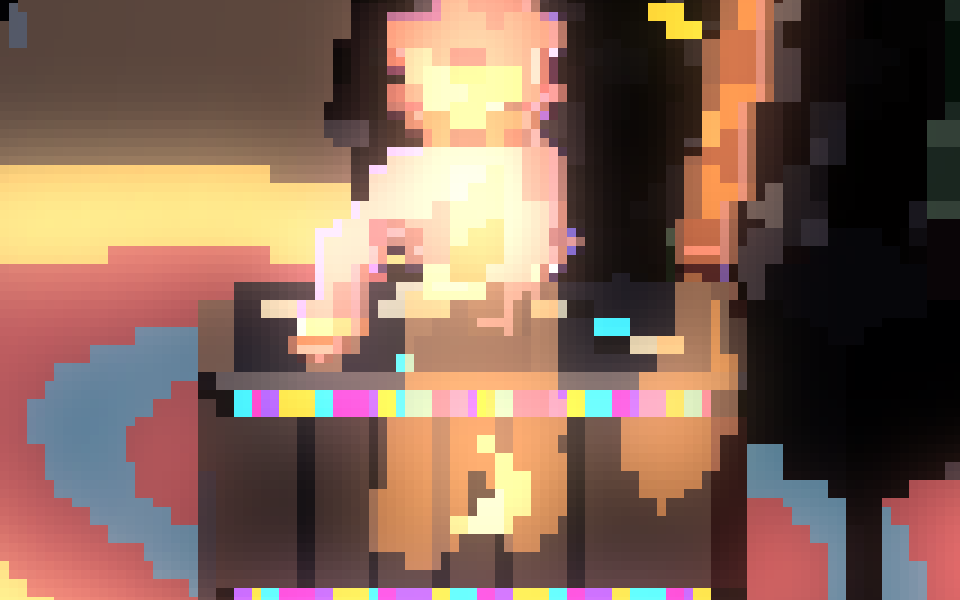
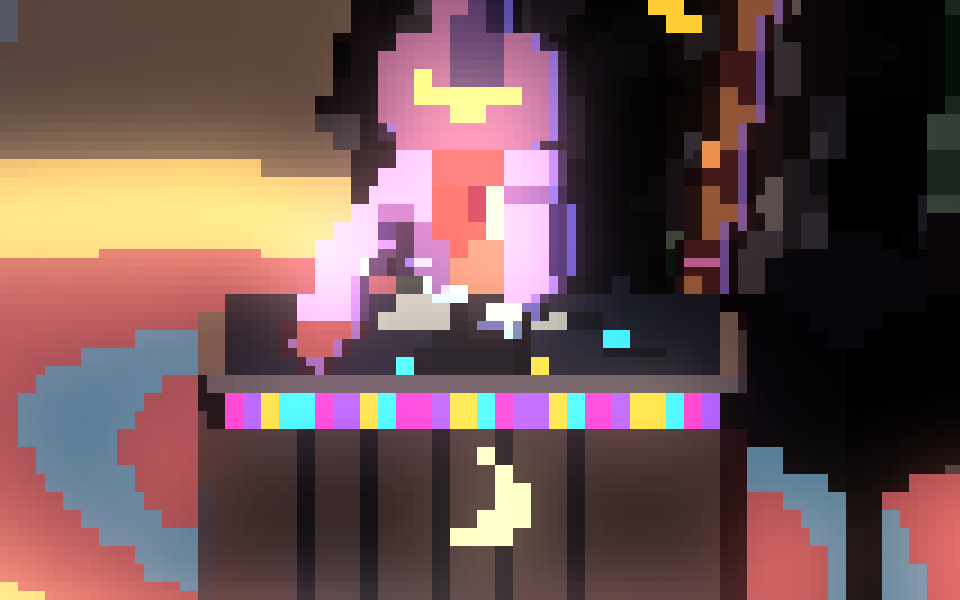
DJ booth: previews, the glossary, the changelog's version
Claude-Session: https://claude.ai/code/session_014acVVHVwbRfeD46pBsk634

diff --git a/tools/art-lab/dist/witch-art-lab.html b/tools/art-lab/dist/witch-art-lab.html
@@ -2595,6 +2595,7 @@ const WITCH_FOOT_POSES = {
   laugh: { frames: 3, fps: 4, party: "social" }, drink: { frames: 4, fps: 1.5, party: "social" }, run: { frames: 4, fps: 10, party: "move" },
   sitGround: { frames: 2, fps: 1, party: "rest" }, stargaze: { frames: 2, fps: 1, party: "rest" }, conga: { frames: 4, fps: 4, party: "pair" },
   twirl: { frames: 4, fps: 4, party: "pair" }, twirled: { frames: 4, fps: 4, party: "pair" }, limboHold: { frames: 2, fps: 2, party: "pair" }, limboHelp: { frames: 2, fps: 2, party: "pair" }, limbo: { frames: 4, fps: 3, party: "dance" },
+  dj: { frames: 14, fps: 4, heading: "towards" },
 };
 // Two witches together: each is her own sprite, and the game puts them so that her `meet` anchor and her partner's land on
 // the same pixel. mirror: the partner's sprite is flipped left-right (anchors too: x becomes w - x), so the two face each
@@ -2708,6 +2709,53 @@ const FOOT_FRAMES = {
   limbo: [0, 1, 2, 3].map(f => ({ broom: null, crouch: .62, limbo: 1.12 + [0, .05, 0, -.04][f], look: .3, sway: .02, mouth: f === 1,
     feet: [[.26 + [0, .05, .08, .03][f], .07, -.1], [.26 + [.08, .03, 0, .05][f], .07, .1]], free: [.0, .82 + [0, .03, 0, -.03][f], .44], hand: "palm", far: [.0, .82 - [0, .03, 0, -.03][f], -.44], farHand: "palm" })), // arms out for balance, shuffling forward
 };
+// dj (Ed, 2026-10-06: "The witch should have a 'DJing' animation for when she's standing behind the decks"): behind the
+// treehouse's decks, facing us (drawn heading towards), her broom leaning beside her, her hands on the decks laid out by
+// DJ_DECKS (in her own model's units: a forward, b up, c to her near side). Gestures of two frames each, the first on the
+// beat (her head nodding down, her knees dipping), the second off it; djFrame picks them from the beat clock:
+//   groove   nodding along, one hand on a platter, the other on the mixer
+//   cue      a hand to her headphone cup (the headphones round her neck when she isn't wearing them), head bent to it
+//   scratch  her hand rocking the record back and forth, eyes down on it
+//   fader    riding the crossfader from side to side
+//   knob     a fingertip on the mixer's knobs
+//   hype     a hand thrown up in the air, grinning (now and then)
+//   cast     both hands up (the party spell)
+const DJ_DECKS = { top: .5, platter: { a: .27, c: .29, r: .15 }, mixer: { a: .27, w: .09 }, fader: .37, depth: [.1, .44], width: .52 };
+const DJ_GESTURES = { groove: [0, 1], cue: [2, 3], scratch: [4, 5], fader: [6, 7], knob: [8, 9], hype: [10, 11], cast: [12, 13] };
+// the set she plays: a gesture a bar, round and round (hype once a loop)
+const DJ_SET = ["groove", "groove", "cue", "scratch", "groove", "fader", "knob", "cue", "groove", "scratch", "fader", "hype"];
+// The frame behind the decks at `beat` (beats on the game's beat clock, rules/beat.ts: beatAt): the gesture by the bar
+// (4 beats; `offset` bars along the set), its first frame for the first half of each beat; `cast`, the spell's gesture.
+function djFrame(beat, { cast = false, offset = 0 } = {}) {
+  const b = Math.max(0, beat), g = cast ? "cast" : DJ_SET[(Math.floor(b / 4) + offset) % DJ_SET.length];
+  return DJ_GESTURES[g][(b % 1) < .5 ? 0 : 1];
+}
+const DJ_BROOM = { binding: [-.08, .31, -.42], dir: [-.06, 1, -.16] };
+const djOn = (K) => ({ broom: DJ_BROOM, dj: true, farHand: "down", hand: "down", sway: .015, ...K });
+const PL = DJ_DECKS.platter, HT = DJ_DECKS.top + .06; // (a hand resting on a platter or the mixer)
+FOOT_FRAMES.dj = [
+  // groove
+  djOn({ crouch: .07, nod: .7, tilt: .1, free: [PL.a - .02, HT, PL.c + .01], far: [PL.a - .03, HT + .02, -.05] }),
+  djOn({ nod: -.15, look: .05, tilt: -.05, mouth: true, free: [PL.a, HT + .01, PL.c], far: [PL.a - .01, HT + .03, -.04] }),
+  // cue: the near hand up at her ear, its elbow out
+  djOn({ crouch: .05, nod: .45, tilt: .45, free: [.0, .93, .2], elbow: [.06, .78, .31], hand: "rest", far: [PL.a - .01, HT, -PL.c] }),
+  djOn({ nod: .05, tilt: .35, free: [.0, .94, .2], elbow: [.06, .79, .31], hand: "rest", far: [PL.a, HT, -PL.c + .01] }),
+  // scratch: the record pulled back, pushed forward
+  djOn({ crouch: .07, nod: .8, tilt: .15, free: [PL.a - .07, HT, PL.c + .03], far: [DJ_DECKS.fader - .02, HT + .01, -.02] }),
+  djOn({ crouch: .02, nod: .55, tilt: .2, free: [PL.a + .06, HT, PL.c - .04], far: [DJ_DECKS.fader - .02, HT + .01, .03] }),
+  // fader: across and back
+  djOn({ crouch: .06, nod: .6, tilt: -.15, free: [PL.a - .01, HT, PL.c], far: [DJ_DECKS.fader, HT + .01, -.07] }),
+  djOn({ nod: 0, tilt: -.05, free: [PL.a, HT, PL.c], far: [DJ_DECKS.fader, HT + .01, .06] }),
+  // knob: a fingertip on the mixer
+  djOn({ crouch: .06, nod: .55, tilt: -.25, look: -.1, free: [PL.a - .02, HT, PL.c], far: [PL.a - .06, HT + .05, .02], farHand: "point" }),
+  djOn({ nod: .1, tilt: -.15, free: [PL.a - .02, HT, PL.c], far: [PL.a - .04, HT + .05, -.03], farHand: "point" }),
+  // hype: a hand in the air
+  djOn({ crouch: .08, look: .2, tilt: .2, mouth: "laugh", free: [.06, 1.24, .26], elbow: [.08, 1.0, .27], hand: "point", far: [PL.a - .03, HT + .02, -.05] }),
+  djOn({ look: .28, tilt: .1, mouth: "laugh", free: [.08, 1.32, .23], elbow: [.08, 1.06, .26], hand: "wave", far: [PL.a - .02, HT + .03, -.04] }),
+  // cast: both hands up
+  djOn({ crouch: .06, look: .22, mouth: true, free: [.06, 1.26, .26], elbow: [.06, 1.0, .28], hand: "wave", far: [.06, 1.26, -.26], farElbow: [.06, 1.0, -.28], farHand: "wave" }),
+  djOn({ look: .3, mouth: "laugh", free: [.02, 1.36, .21], elbow: [.04, 1.08, .26], hand: "wave", far: [.02, 1.36, -.21], farElbow: [.04, 1.08, -.26], farHand: "wave" }),
+];
 // the knee between a hip and a foot, bent forward
 function kneeOf(hip, foot, l) {
   const d = Math.hypot(foot[0] - hip[0], foot[1] - hip[1]), mid = v3.lerp(hip, foot, .5);
@@ -2775,6 +2823,12 @@ function footModel(pose, frame, L = DEFAULT_LOOK) {
   if (L.phones) {
     for (const side of [-1, 1]) m.ell(v3.add(H, [-.015, 0, side * .105]), [.05, .055, .03], M.PHONES, { group: 10 });
     m.chain([[...v3.add(H, [-.005, .03, -.095]), .015], [...v3.add(H, [-.005, .11, -.05]), .015], [...v3.add(H, [-.005, .125, 0]), .015], [...v3.add(H, [-.005, .11, .05]), .015], [...v3.add(H, [-.005, .03, .095]), .015]], M.PHONES, { group: 10 });
+  }
+  if (K.dj && !L.phones) { // behind the decks, a pair round her neck (one cup up to her ear, cueing)
+    const neck = v3.add(chest, v3.mul(spine, .13)), cueing = free[1] > H[1] - .1 && free[1] < H[1] + .1;
+    const near = cueing ? v3.add(free, [.01, .02, -.04]) : v3.add(neck, [.05, -.02, .1]), far = v3.add(neck, [.05, -.02, -.1]);
+    for (const c of [near, far]) m.ell(c, [.035, .045, .045], M.PHONES, { group: 10 });
+    m.chain([[...far, .014], [...v3.add(neck, [-.06, .02, 0]), .014], [...near, .014]], M.PHONES, { group: 10 });
   }
   const brim = v3.add(H, [-.03 + K.nod * .03, .1 - K.nod * .02, K.tilt * .02]), tz = K.tilt * .05;
   const tip = drawHat(m, L, brim, [1, .25 - K.look * .8 - K.nod * .7, K.tilt * .3], v3.add(brim, [-.05 + K.nod * .05, .17, tz]), v3.add(brim, [-.16 - sway * .5 + K.nod * .12, .27 - K.nod * .04, tz * 2]));
@@ -2907,14 +2961,30 @@ const WITCH_HEADINGS = { away: -Math.PI / 2, towards: Math.PI / 2 };
 // look: a party look (DEFAULT_LOOK's keys; partyWitch gives one). Anchors, in pixels from the top-left: hand and hatTip on
 // every sprite; on foot also pair (where a partner meets her, WITCH_PAIRS), back (the conga) and cup (drinking).
 function witchSprite(st = {}, { frame = 0, lean = false, facing = "towards", pose, heading = "side", look } = {}) {
+  const dj = pose === "dj";
+  if (dj) heading = WITCH_FOOT_POSES.dj.heading;
   const h = witchHeight(st), yaw = WITCH_HEADINGS[heading];
   const model = witchModel({ frame, lean, pose, look }); model.phaseOnBody = true; // (her train and streaks never move her pixels)
-  const { sp, project, s } = yaw !== undefined ? render(model, { scale: witchScale(h), yaw }) : pose ? render(model, { scale: witchScale(h), facing }) : look && look !== DEFAULT_LOOK ? render(model, { scale: ownScale(h, frame, lean, facing), facing }) : render(model, { height: h, facing }); // (another look at the scale she has in that pose, so a tall hat doesn't shrink her)
+  const { sp, project, s, depth, depthOf } = yaw !== undefined ? render(model, { scale: witchScale(h), yaw, keepDepth: dj }) : pose ? render(model, { scale: witchScale(h), facing }) : look && look !== DEFAULT_LOOK ? render(model, { scale: ownScale(h, frame, lean, facing), facing }) : render(model, { height: h, facing }); // (another look at the scale she has in that pose, so a tall hat doesn't shrink her)
   sp.scale = s; // pixels per model unit
   if (model.anchors.hand) sp.anchors = Object.fromEntries(Object.entries(model.anchors).filter(([k]) => k !== "feet").map(([k, p]) => [k, project(p)]));
   liftShadow(sp, model, project);
   cleanFlecks(sp); // (Ed: "The witch has these little flecks … we should remove them")
+  if (dj) sp.upper = aboveDecks(sp, project, depth, depthOf);
   return sp;
+}
+// Behind the decks: which of her pixels are above the decks' top (DJ_DECKS.top), so drawn over the DJ table (the game draws
+// the table over her, then these over it: her hands on the platters, the table hiding her legs). Each pixel's height in the
+// model from where it lands and how deep it is (the render's projection is affine: inverted from the axes).
+function aboveDecks(sp, project, depth, depthOf) {
+  const f = p => { const [x, y] = project(p); return [x, y, depthOf(p)]; }, o = f([0, 0, 0]), ax = [[1, 0, 0], [0, 1, 0], [0, 0, 1]].map(e => f(e).map((v, k) => v - o[k]));
+  const [a, b, c] = ax, det = v3.dot(a, v3.cross(b, c)), row = v3.mul(v3.cross(c, a), 1 / det); // the inverse's middle row: the model's y
+  const up = new Uint8Array(sp.w * sp.h), top = DJ_DECKS.top + .015;
+  for (let y = 0; y < sp.h; y++) for (let x = 0; x < sp.w; x++) {
+    const i = y * sp.w + x; if (!sp.m[i] || !isFinite(depth[i])) continue;
+    if (v3.dot(row, [x + .5 - o[0], y + .5 - o[1], depth[i] - o[2]]) > top) up[i] = 1;
+  }
+  return up;
 }
 // Her shadow, drawn by the game instead (Ed, 2026-10-06: she floated over her shadow lying on the beach): the model's dark
 // ellipse on its ground is taken out of the sprite (the box kept, so she stands and flies exactly where she did), and two
@@ -3093,24 +3163,66 @@ const TREEHOUSE_STOREYS = {
 };
 const FAIRY = [M.COLLAR, M.RUNE, M.WOKEN, M.MAGIC];
 const OPEN = a => Math.abs(((a - Math.PI / 2 + Math.PI * 3) % (Math.PI * 2)) - Math.PI) < 1.35; // the studio's open side: round +z, towards the camera
-// The DJ table (Ed: "she is a DJ, and should have decks"): a sturdy desk across the front of the studio, two turntables
-// with a mixer between them, a laptop on a stand, headphones; small lights on the decks and the mixer's faders in the party's
-// colours. Built into the house and, alone, into the `fore` sprite the game draws over her (she sits behind it).
-const DJ = { z: 2.38, y: TREEHOUSE_STOREYS.studio.y };
-function djTable(m) {
-  const { z, y } = DJ, top = y + .6, G0 = 60; // its own groups (60..69), apart from the house's
-  m.box([0, y + .3, z], [.9, .3, .26], M.WOOD, { round: .03, group: G0, paint: p => p[2] > z + .24 ? (p[1] < y + .1 ? FAIRY[Math.floor((p[0] + 9) * 5) % 4] : ((p[0] + 9) * 4) % 1 < .06 ? M.BARKD : M.BARK2) : p[1] > top - .03 ? M.BARKL : undefined }); // the desk, an LED strip along its front foot
-  for (const [x, k] of [[-.47, 0], [.47, 2]]) { // the turntables
-    m.box([x, top + .03, z], [.3, .03, .23], M.SHADES, { round: .015, group: G0 + 1 + k });
-    const pc = [x - .03, top + .065, z - .01]; m.ell(pc, [.19, .012, .19], M.BODY3, { group: G0 + 2 + k, paint: p => { const d = Math.hypot(p[0] - pc[0], p[2] - pc[2]); return d < .045 ? M.ACCENT : Math.abs(p[0] - pc[0] - (p[2] - pc[2]) * .6) < .012 && d < .17 ? M.FRAME : (d * 60) % 1 < .25 ? M.SHADES : undefined; } }); // the platter: a record, a label, a glint across it
-    m.seg([x + .22, top + .09, z - .16], [x + .08, top + .09, z + .05], .01, .008, M.FRAME, { group: G0 + 1 + k }); // the tonearm
-    m.ell([x + .24, top + .065, z + .17], [.018, .012, .018], k ? M.WOKEN : M.RUNE, { group: G0 + 1 + k }); // its light
-  }
-  m.box([0, top + .05, z], [.11, .05, .21], M.SHADES, { round: .015, group: G0 + 5, paint: p => p[1] > top + .09 ? ((Math.floor((p[0] + 9) * 26) % 2 === 0 && ((p[2] - z + 9) * 9) % 1 < .45) ? FAIRY[Math.floor((p[0] + 9) * 13) % 4] : undefined) : undefined }); // the mixer, its faders lit
-  m.seg([.8, top, z - .05], [.8, top + .14, z - .08], .02, .02, M.FRAME, { group: G0 + 6 }); m.box([.8, top + .15, z - .05], [.14, .008, .1], M.FRAME, { round: .004, group: G0 + 6 }); m.box([.8, top + .26, z - .14], [.14, .1, .008], M.FRAME, { dir: [1, 0, 0], up: [0, 1, .45], round: .004, group: G0 + 6, paint: p => p[2] < z - .145 ? M.RUNE : undefined }); // a laptop on its stand
-  m.chain([[-.86, top + .02, z + .1, .015], [-.8, top + .1, z + .04, .015], [-.7, top + .02, z - .02, .015]], M.BODY3, { group: G0 + 7 }); for (const [x, zz] of [[-.86, .1], [-.7, -.02]]) m.ell([x, top + .03, z + zz], [.045, .03, .045], M.BODY3, { group: G0 + 7, paint: p => p[1] > top + .05 ? M.COLLAR : undefined }); // headphones
+// The DJ booth (Ed, 2026-10-06: "The witch should have a 'DJing' animation for when she's standing behind the decks. Feel free
+// to redesign the treehouse to make it better for this"): a desk squared up to the camera (whichever way the house is turned)
+// right in front of where she stands, laid out to her own reach (DJ_DECKS in witch.js, in her model's units: a forward, b up,
+// c to her near side, the screen's left): two turntables, their platters' labels glowing pink and cyan, a white mark on each
+// going round (frame by frame), tonearms, start lights; a mixer between them, its knobs, channel faders, crossfader and two
+// level meters jumping; a raised lip along the front edge, and on the front panel a chasing strip of party LEDs top and
+// bottom, round a glowing crescent moon. Built into the house (frame 0) and, alone, into the fore frames the game draws over
+// her (DJ_FRAMES of them: the platters turn an eighth of a turn and the LEDs chase on each).
+const DJ_FRAMES = 8;
+const DJ_STAND = [0, TREEHOUSE_STOREYS.studio.y, 1.75]; // where she stands (her seat anchor), in the house's units
+function djFrame3(facing) { // her model's (a, b, c) in the house's: squared to the camera at the house's yaw for this facing
+  const yaw = YAW[facing] ?? YAW.towards, f = [Math.sin(yaw), 0, Math.cos(yaw)], r = [Math.cos(yaw), 0, -Math.sin(yaw)], o = v3.sub(DJ_STAND, v3.mul(f, .02)); // (her ground anchor .02 ahead of her origin)
+  const to = ([a, b, c]) => v3.add(o, v3.add(v3.mul(f, a), v3.add(v3.mul(r, -c), [0, b, 0])));
+  const from = p => { const d = v3.sub(p, o); return [v3.dot(d, f), d[1], -v3.dot(d, r)]; };
+  return { to, from, f, r };
 }
-function treehouseModel() {
+function djTable(m, { frame = 0, facing = "towards" } = {}) {
+  const D = DJ_DECKS, F = djFrame3(facing), { to, from, f, r } = F, G0 = 60, TOP = D.top, [a0, a1] = D.depth, am = (a0 + a1) / 2, W = D.width; // its own groups (60..79), apart from the house's
+  const box = (c, h, mat, o = {}) => m.box(to(c), h, mat, { dir: r, up: [0, 1, 0], ...o }); // half sizes: across, up, deep
+  const chase = (c, k) => FAIRY[((Math.floor((c + 9) * 22) + frame + k) % 4 + 4) % 4];
+  // the desk: a panelled front with LED strips top and bottom round a crescent moon, wood sides, a dark top
+  box([am, TOP / 2, 0], [W, TOP / 2, (a1 - a0) / 2], M.WOOD, { round: .02, group: G0, paint: p => {
+    const [a, b, c] = from(p);
+    if (b > TOP - .012) return undefined; // the top (bare wood, so the dark decks stand out on it)
+    if (a < a1 - .015) return Math.abs(c) > W - .02 ? M.BARKL : undefined; // the sides
+    if (b > TOP - .06 || b < .05) return Math.abs(c) > W - .03 ? M.BARKD : chase(c, b < .05 ? 2 : 0); // the LED strips
+    const mc = [c - .0, b - .27], d1 = Math.hypot(mc[0], mc[1]), d2 = Math.hypot(mc[0] - .05, mc[1] - .03); // the moon: a disc less a disc
+    if (d1 < .11 && d2 > .095) return M.MAGIC2;
+    return Math.abs(((c + 9) * 7.5) % 1 - .5) > .46 ? M.BARK2 : undefined; // slats
+  } });
+  box([a1 - .01, TOP + .012, 0], [W + .015, .014, .018], M.BARKL, { round: .008, group: G0 + 1 }); // the lip along its front edge
+  // the turntables
+  for (const [k, side] of [[0, 1], [1, -1]]) {
+    const P = D.platter, c0 = side * P.c, gk = G0 + 2 + k * 4, mark = (frame / DJ_FRAMES) * Math.PI * 2 * -side + k * 1.7; // (both turning clockwise seen from above)
+    box([P.a, TOP + .01, c0], [P.r + .04, .012, P.r + .03], M.SHADES, { round: .01, group: gk });
+    const pc = to([P.a, TOP + .03, c0]);
+    m.ell(pc, [P.r, .008, P.r], M.BODY3, { group: gk + 1, paint: p => {
+      const [a, , c] = from(p), da = a - P.a, dc = c - c0, d = Math.hypot(da, dc);
+      if (d < .04) return d < .012 ? M.FRAME : k ? M.RUNE : M.COLLAR; // the label (and its spindle)
+      const ang = Math.atan2(dc, da), off = Math.abs(((ang - mark) % (Math.PI * 2) + Math.PI * 3) % (Math.PI * 2) - Math.PI);
+      if (off < .32 && d > .065 && d < P.r - .015) return M.BELLY; // the mark going round
+      return Math.abs(d - .085) < .006 || Math.abs(d - .11) < .005 ? M.SHADES : undefined; // grooves
+    } });
+    const pivot = to([P.a - .1, TOP + .05, c0 - side * (P.r + .02)]), stylus = to([P.a + .06, TOP + .04, c0 - side * .07]);
+    m.seg(pivot, stylus, .009, .007, M.FRAME, { group: gk + 2 }); m.ell(pivot, [.02, .02, .02], M.FRAME, { group: gk + 2 }); // the tonearm
+    m.ell(to([P.a + P.r - .005, TOP + .03, c0 - side * (P.r + .015)]), [.014, .01, .014], (frame + k) % 4 < 2 ? (k ? M.WOKEN : M.RUNE) : M.SHADES, { group: gk + 3 }); // its start light, blinking
+  }
+  // the mixer: knobs at the back, two level meters, channel faders, the crossfader in front
+  const X = D.mixer, gm = G0 + 12, lv = [5, 3, 4, 2, 5, 2, 4, 3][frame % 8], lv2 = [4, 5, 2, 4, 3, 5, 2, 4][frame % 8];
+  box([X.a, TOP + .02, 0], [X.w, .02, .15], M.SHADES, { round: .01, group: gm, paint: p => {
+    const [a, b, c] = from(p); if (b < TOP + .035) return undefined;
+    for (const [cc, L] of [[.02, lv], [-.02, lv2]]) if (Math.abs(c - cc) < .009) { const n = Math.floor((.31 - a) / .016); if (n >= 0 && n < 5 && ((.31 - a) / .016) % 1 < .7) return n < L ? (n < 2 ? M.RUNE : n < 4 ? M.WOKEN : M.COLLAR) : M.BODY3; } // the meters, low to high
+    return undefined;
+  } });
+  for (const cc of [-.06, .06]) for (const aa of [.16, .2, .24]) m.ell(to([aa, TOP + .045, cc]), [.012, .008, .012], M.FRAME, { group: gm + 1 }); // knobs
+  for (const cc of [-.045, .045]) m.box(to([.34, TOP + .045, cc]), [.008, .006, .016], M.BELLY, { dir: r, up: [0, 1, 0], group: gm + 2 }); // channel faders
+  m.box(to([D.fader, TOP + .045, [.03, .01, -.03, -.01][frame % 4]]), [.018, .007, .008], M.BELLY, { dir: r, up: [0, 1, 0], group: gm + 3 }); // the crossfader, riding
+  return F;
+}
+function treehouseModel(facing = "towards") {
   const m = new Model({ blend: .04 }), lights = [];
   const hash = (a, b) => { const x = Math.sin(a * 127.1 + b * 311.7) * 43758.5453; return x - Math.floor(x); };
   let G = 100; const g = () => G++;
@@ -3182,14 +3294,14 @@ function treehouseModel() {
   { const c = [2.15, sy, -1.65], gk = g(), d = [Math.cos(-2.4), 0, Math.sin(-2.4)], f = v3.norm([-d[2], 0, d[0]]); m.box(v3.add(c, [0, .45, 0]), [.36, .45, .32], M.SHADES, { dir: d, round: .03, group: gk }); m.box(v3.add(c, [0, 1.15, 0]), [.26, .25, .24], M.SHADES, { dir: d, round: .03, group: gk }); for (const [dy, r, o] of [[.45, .27, .33], [1.15, .15, .25]]) { const cc = v3.add(v3.add(c, [0, dy, 0]), v3.mul(f, o)); m.ell(cc, [r, r, .03], M.BODY3, { dir: f, up: [0, 1, 0], group: gk, paint: p => Math.hypot(...v3.sub(p, cc)) < r * .4 ? M.MAGIC : M.BODY3 }); } } // a speaker stack in the corner
   for (const x of [-1.2, 1.25]) { const c = [x, sy, 2.25], gm = g(); m.seg(c, v3.add(c, [0, .8, 0]), .025, .025, M.BODY3, { group: gm }); m.box(v3.add(c, [0, 1.0, 0]), [.15, .2, .14], M.SHADES, { dir: [x < 0 ? .95 : -.95, 0, -.3], round: .02, group: gm }); } // monitors on stands either side of the decks
   for (const [x, z] of [[-1.75, 1.75], [1.75, 2.0]]) { const c = [x, sy, z], gc = g(); m.box(v3.add(c, [0, .17, 0]), [.27, .17, .2], M.WOOD, { round: .015, group: gc, paint: p => p[1] > sy + .3 ? M.BARKL : undefined }); for (let k = 0; k < 6; k++) m.box(v3.add(c, [-.2 + k * .08, .3 + hash(k, x) * .04, 0]), [.012, .16, .16], [M.ACCENT, M.CLOTH, M.BODY2, M.EAR][k % 4], { round: .005, group: gc }); } // record crates, the sleeves showing
-  djTable(m);
-  const stool = [0, sy, 1.68], gst = g(); m.ell(v3.add(stool, [0, WITCH_SEAT_HEIGHT - .03, 0]), [.2, .04, .2], M.CLOTH, { group: gst }); for (let k = 0; k < 3; k++) { const a = k / 3 * Math.PI * 2; m.seg(v3.add(stool, [Math.cos(a) * .14, 0, Math.sin(a) * .14]), v3.add(stool, [0, WITCH_SEAT_HEIGHT - .05, 0]), .02, .02, M.FRAME, { group: gst }); } // her stool, behind the decks
+  const dj = djTable(m, { facing });
+  const stool = DJ_STAND, gst = g(); m.ell(v3.add(stool, [0, WITCH_SEAT_HEIGHT - .03, 0]), [.2, .04, .2], M.CLOTH, { group: gst }); for (let k = 0; k < 3; k++) { const a = k / 3 * Math.PI * 2; m.seg(v3.add(stool, [Math.cos(a) * .14, 0, Math.sin(a) * .14]), v3.add(stool, [0, WITCH_SEAT_HEIGHT - .05, 0]), .02, .02, M.FRAME, { group: gst }); } // her stool, behind the decks
   for (const [a, y, k] of [[-Math.PI / 2 - 1.55, 1.1, 0], [-Math.PI / 2 + 1.5, 1.2, 1], [-Math.PI / 2 + .1, 1.55, 2], [Math.PI + .55, 1.0, 3]]) { const c = [Math.cos(a) * (SR - .07), sy + y, Math.sin(a) * (SR - .07)], d = [-Math.sin(a), 0, Math.cos(a)]; m.box(c, [.17, .23, .01], [M.ACCENT, M.CLOTH, M.BODY2, M.EAR][k], { dir: d, up: [0, 1, 0], round: .005, group: g(), paint: p => { const u = v3.dot(v3.sub(p, c), d) / .17, v = (p[1] - c[1]) / .23; return Math.hypot(u, v - .2) < .45 ? [M.BODY2, M.ACCENT, M.CLOTH, M.ACCENT][k] : v < -.55 && Math.abs(u) < .7 && ((u + 2) * 6) % 1 < .5 ? M.SHADES : undefined; } }); } // party flyers on the walls
-  { const gl = g(), top = [0, sy + S.studio.h + .6, 1.9], bulb = [0, sy + 1.6, 1.9]; m.seg(top, v3.add(bulb, [0, .16, 0]), .008, .008, M.BODY3, { group: gl }); m.seg(v3.add(bulb, [0, .17, 0]), v3.add(bulb, [0, .02, 0]), .03, .16, M.BODY3, { group: gl }); m.ell(bulb, [.07, .06, .07], M.MAGIC2, { group: gl }); } // a pendant lamp over the decks
+  { const gl = g(), top = [0, sy + S.studio.h + .6, 1.0], bulb = [0, sy + 1.6, 1.0]; m.seg(top, v3.add(bulb, [0, .16, 0]), .008, .008, M.BODY3, { group: gl }); m.seg(v3.add(bulb, [0, .17, 0]), v3.add(bulb, [0, .02, 0]), .03, .16, M.BODY3, { group: gl }); m.ell(bulb, [.07, .06, .07], M.MAGIC2, { group: gl }); } // a pendant lamp over the decks
   { const gl = g(), f = [-1.6, sy, -1.7]; m.seg(f, v3.add(f, [0, 1.25, 0]), .02, .02, M.BODY3, { group: gl }); m.seg(v3.add(f, [0, 1.25, 0]), v3.add(f, [0, 1.05, 0]), .04, .14, M.STRAW, { group: gl }); m.ell(v3.add(f, [0, 1.1, 0]), [.06, .05, .06], M.MAGIC2, { group: gl }); } // a floor lamp
-  lights.push({ at: [0, sy + 1.55, 1.9], rgb: [255, 214, 150], kind: "studio lamp" }, { at: [-1.6, sy + 1.1, -1.7], rgb: [255, 200, 130], kind: "studio lamp" });
-  lights.push({ at: [0, sy + 1.0, 1.4], rgb: [255, 200, 120], kind: "studio" }, { at: [Math.cos(-Math.PI / 2 + .62) * SR, sy + 1.2, Math.sin(-Math.PI / 2 + .62) * SR], rgb: [255, 190, 96], kind: "studio window" }, { at: [-.6, sy + S.studio.h - .1, 1.6], rgb: [255, 120, 220], kind: "fairy lights" });
-  for (const [x, rgb] of [[-.45, [80, 230, 255]], [0, [255, 80, 200]], [.45, [255, 214, 80]]]) lights.push({ at: [x, sy + .7, 2.3], rgb, kind: "decks" }); // the decks' and mixer's indicator lights, for the game to pulse with the music
+  lights.push({ at: [0, sy + 1.55, 1.0], rgb: [255, 214, 150], kind: "studio lamp" }, { at: [-1.6, sy + 1.1, -1.7], rgb: [255, 200, 130], kind: "studio lamp" });
+  lights.push({ at: [0, sy + 1.6, .7], rgb: [255, 200, 120], kind: "studio" }, { at: [Math.cos(-Math.PI / 2 + .62) * SR, sy + 1.2, Math.sin(-Math.PI / 2 + .62) * SR], rgb: [255, 190, 96], kind: "studio window" }, { at: [-.6, sy + S.studio.h - .1, 1.6], rgb: [255, 120, 220], kind: "fairy lights" });
+  for (const [c, rgb] of [[DJ_DECKS.platter.c, [255, 80, 200]], [0, [255, 214, 80]], [-DJ_DECKS.platter.c, [80, 230, 255]]]) lights.push({ at: dj.to([DJ_DECKS.depth[1] + .35, DJ_DECKS.top * .5, c]), rgb, kind: "decks" }); // the decks' LEDs, lighting the booth's front (out in front of it, not on her), for the game to pulse
   { const gl = g(), D = S.studio.deck, n = 40; for (let k = 0; k < n; k++) { const a = k / n * Math.PI * 2; m.ell([Math.cos(a) * (D - .05), sy - .16, Math.sin(a) * (D - .05)], [.05, .035, .05], FAIRY[k % 4], { group: gl, extra: true }); } lights.push({ at: [0, sy - .2, S.studio.deck], rgb: [80, 230, 255], kind: "LED strip" }); } // an LED strip under the deck's edge
   // ---- the loft: a smaller storey, a loudspeaker on its balcony, solar panels on its roof ----
   deck(S.loft, { under: 5 });
@@ -3219,7 +3331,7 @@ function treehouseModel() {
     m.chain(rail, M.BODY3, { group: g() }); }
   for (const [a, y0, y1] of [[Math.PI / 2 + 1.55, S.studio.y, S.loft.y], [Math.PI / 2 + 1.45, S.loft.y, S.tower.y]]) { const gl = g(), D = y0 < 6 ? 2.6 : 2.05; for (const off of [-.18, .18]) { const b = a + off / D; m.seg([Math.cos(b) * D, y0, Math.sin(b) * D], [Math.cos(b) * D, y1, Math.sin(b) * D], .025, .025, M.WOOD, { group: gl }); } for (let y = y0 + .3; y < y1; y += .32) m.seg([Math.cos(a - .18 / D) * D, y, Math.sin(a - .18 / D) * D], [Math.cos(a + .18 / D) * D, y, Math.sin(a + .18 / D) * D], .02, .02, M.WOOD, { group: gl }); } // ladders up the outside
   m.ell([0, .005, 0], [4.6, .005, 3.6], M.NOSE, { group: 0 }); // its shadow on the ground
-  return { m, lights, seat: stool, door: [Math.cos(Math.PI / 2 + .05) * S.porch.R, S.porch.y, Math.sin(Math.PI / 2 + .05) * (S.porch.R + .05)], camera: [0, sy + .95, 1.9], splitY: sy + S.studio.h + 1.5, footprint: 4.3, crownR, trunkR: 1.55 }; // trunkR: its radius 3 m up
+  return { m, lights, dj, seat: stool, door: [Math.cos(Math.PI / 2 + .05) * S.porch.R, S.porch.y, Math.sin(Math.PI / 2 + .05) * (S.porch.R + .05)], camera: [0, sy + .95, 1.9], splitY: sy + S.studio.h + 1.5, footprint: 4.3, crownR, trunkR: 1.55 }; // trunkR: its radius 3 m up
 }
 
 // The treehouse at the witch's scale: { whole, top, bot, fore, crownY, anchors: { base, seat, door, camera, lights: [{ x, y, rgb, kind }] }, metres }.
@@ -3231,7 +3343,7 @@ function treehouseModel() {
 // trunk (the giant tree's diameter 3 m up) and crown (its crown's radius). fore: the DJ table alone, at the same size and origin
 // as whole, for the game to draw over the witch sitting behind it.
 function treehouseSprite(st = {}, { facing = "towards", ppm = 16 } = {}) {
-  const T = treehouseModel(), ppu = witchPixelsPerUnit(st), r = render(T.m, { scale: ppu, facing }), full = r.sp, um = u => +(u * ppu / ppm).toFixed(1); // model units to metres
+  const T = treehouseModel(facing), ppu = witchPixelsPerUnit(st), r = render(T.m, { scale: ppu, facing }), full = r.sp, um = u => +(u * ppu / ppm).toFixed(1); // model units to metres
   // cropped to what is drawn (a part's bounding sphere leaves empty rows above it); anchors move with it
   let x0 = full.w, x1 = -1, y0 = full.h; for (let y = 0; y < full.h; y++) for (let x = 0; x < full.w; x++) if (full.m[y * full.w + x]) { x0 = Math.min(x0, x); x1 = Math.max(x1, x); y0 = Math.min(y0, y); }
   const sp = new Sprite(x1 - x0 + 1, full.h - y0); for (let y = 0; y < sp.h; y++) for (let x = 0; x < sp.w; x++) { const i = (y + y0) * full.w + x + x0; if (full.m[i]) sp.put(x, y, full.m[i], full.n[i * 3], full.n[i * 3 + 1], full.n[i * 3 + 2]); }
@@ -3243,11 +3355,19 @@ function treehouseSprite(st = {}, { facing = "towards", ppm = 16 } = {}) {
     (LEAVES.has(mm) || y < crownY ? top : bot).put(x, y, mm, sp.n[i * 3], sp.n[i * 3 + 1], sp.n[i * 3 + 2]);
   }
   const at = p => { const [x, y] = project(p); return { x, y }; };
-  // fore: the DJ table alone, where it shows in the whole sprite (same size and origin), for the game to draw over her
-  const fm = new Model({ blend: .04 }); djTable(fm); const rf = render(fm, { scale: ppu, facing }), P0 = [0, DJ.y + .3, DJ.z], [ax, ay] = r.project(P0), [bx, by] = rf.project(P0), fore = new Sprite(sp.w, sp.h);
-  for (let y = 0; y < rf.sp.h; y++) for (let x = 0; x < rf.sp.w; x++) { const i = y * rf.sp.w + x, mm = rf.sp.m[i]; if (!mm) continue; const X = Math.round(x + ax - bx - x0), Y = Math.round(y + ay - by - y0); if (X < 0 || Y < 0 || X >= sp.w || Y >= sp.h || !sp.m[Y * sp.w + X]) continue; const j = Y * sp.w + X; if (sp.m[j] !== M.LINE && sp.m[j] !== mm && !(mm === M.LINE)) continue; fore.put(X, Y, sp.m[j], sp.n[j * 3], sp.n[j * 3 + 1], sp.n[j * 3 + 2]); }
+  // fore: the DJ table alone, where it shows in the whole sprite (same size and origin), for the game to draw over her; and
+  // foreFrames, its DJ_FRAMES turns cropped to the box they share (foreBox: its top-left in the whole sprite's pixels)
+  const P0 = T.dj.to([DJ_DECKS.platter.a, DJ_DECKS.top, 0]), [ax, ay] = r.project(P0), frames = [];
+  for (let k = 0; k < DJ_FRAMES; k++) {
+    const fm = new Model({ blend: .04 }); djTable(fm, { frame: k, facing }); const rf = render(fm, { scale: ppu, facing }), [bx, by] = rf.project(P0), fs = new Sprite(sp.w, sp.h);
+    for (let y = 0; y < rf.sp.h; y++) for (let x = 0; x < rf.sp.w; x++) { const i = y * rf.sp.w + x, mm = rf.sp.m[i]; if (!mm) continue; const X = Math.round(x + ax - bx - x0), Y = Math.round(y + ay - by - y0); if (X < 0 || Y < 0 || X >= sp.w || Y >= sp.h) continue; fs.put(X, Y, mm, rf.sp.n[i * 3], rf.sp.n[i * 3 + 1], rf.sp.n[i * 3 + 2]); }
+    frames.push(fs);
+  }
+  const fore = frames[0]; let fx0 = sp.w, fx1 = -1, fy0 = sp.h, fy1 = -1;
+  for (const fs of frames) for (let y = 0; y < sp.h; y++) for (let x = 0; x < sp.w; x++) if (fs.m[y * sp.w + x]) { fx0 = Math.min(fx0, x); fx1 = Math.max(fx1, x); fy0 = Math.min(fy0, y); fy1 = Math.max(fy1, y); }
+  const foreFrames = frames.map(fs => { const c = new Sprite(fx1 - fx0 + 1, fy1 - fy0 + 1); for (let y = 0; y < c.h; y++) for (let x = 0; x < c.w; x++) { const i = (y + fy0) * sp.w + x + fx0; if (fs.m[i]) c.put(x, y, fs.m[i], fs.n[i * 3], fs.n[i * 3 + 1], fs.n[i * 3 + 2]); } return c; });
   const S = TREEHOUSE_STOREYS;
-  return { whole: sp, top, bot, fore, crownY, anchors: { base: at([0, 0, 0]), seat: at(T.seat), door: at(T.door), camera: at(T.camera), lights: T.lights.map(L => ({ ...at(L.at), rgb: L.rgb, kind: L.kind })) },
+  return { whole: sp, top, bot, fore, foreFrames, foreBox: { x: fx0, y: fy0 }, crownY, anchors: { base: at([0, 0, 0]), seat: at(T.seat), door: at(T.door), camera: at(T.camera), lights: T.lights.map(L => ({ ...at(L.at), rgb: L.rgb, kind: L.kind })) },
     metres: { height: +(sp.h / ppm).toFixed(1), width: +(sp.w / ppm).toFixed(1), towerFloor: um(S.tower.y), roofTip: um(S.tower.y + S.tower.h + 3.3 + .3), footprint: um(T.footprint), overhang: um(S.studio.deck), trunk: um(T.trunkR * 2), crown: um(T.crownR) } };
 }
 

diff --git a/CLAUDE.md b/CLAUDE.md
@@ -68,7 +68,7 @@ Literal, stable names for the parts of the game, as Ed and the builders agree th
 - **Pair poses**: party poses two witches do together (`WITCH_PAIRS`): each draws her own sprite, placed so their `pair` anchors meet (the partner mirrored, so they face each other; the conga's hands on the `back` of the witch ahead; the twirl's partner spins under the raised hand; the broom limbo is two witches holding a broom level and a third leaning back under it).
 - **Witch genome / witch generator**: a witch as genome data (`art/witchGenome.js`): her hat (shape: the witch's classic, crooked, floppy, small and flowers, and the creator's none, top, cowboy, conical, boppers, party, musketeer, wizard, beanie, crown, mushroom and traffic; crown height, brim, lean, band), hair, top, cloak (none, short, long, hooded), broom (classic, fan, twig or round bristles; handle length and bend; bristle length; and the creator's other kinds, Ed 2026-10-06, `art/brooms.js`: missile, curled tip, handlebars, hobby horse, jet bike, oar, mop, pitchfork, canoe, ladder, speeder bike, bicycle, quad drone and gyrocopter (the wicker basket left out), each in the Broom box's two colours, body and trim, its flames, exhausts and lights glowing, its rotors, wheels and drips turning with the frame; she sits in the canoe, and on foot the vehicles stand beside her; `node tools/witch/brooms-sheet.mjs <png> [kinds]` and `brooms-gif.mjs` draw them; generated witches keep the four brooms), cloak length and patches, scarf length (0 none to 7, streaming far behind her; Ed, 2026-10-06: "allow a longer cloak and a longer scarf": past ×3 it flutters with the frame), the cloak up to ×6 (past the old lengths a train of cloth streaming and rippling behind her in flight, down her back and along the ground on foot; its train `extra`, so it neither shrinks nor lifts her; `node tools/witch/longwear-sheet.mjs <png>` draws the old and new ends), bag size and backpack size (0 none), the sliders' ranges wider than a generated witch's (Ed, round 11: "the sliders ... should go further"; `node tools/witch/hats-sheet.mjs` and `sliders-sheet.mjs` draw them), accessories both witchy and modern (Ed: a familiar riding her broom or sitting at her feet: cat, crow, toad or bat; a lit lantern at her hip, a glowing potion vial and a spellbook at her belt; headphones, sunglasses, round or not, glow sticks, a festival wristband, a bum bag, chunky trainers; a scarf, a satchel, a glowing pendant, earrings) and palette (per part, as `DEFAULT_OUTFIT`). `genomeLook(g)` gives the look and outfit `witchSprite` draws; `WITCH_GENOME` is ours and draws her exactly; `witchGenome(seed)` is a new witch within the limits in `WITCH_AXES` (always a pointed hat with its glowing band, and a broom; brims up to nearly twice hers, a floppy one's to 1.5, and cloaks mostly long, up to 1.75 times).
 - **Lean cycle**: the witch's ordinary flying speed at ground level as a 4-frame loop (`pose: "lean"`), played faster with speed.
-- **Treehouse**: the witch's home near the dancefloor (`art/treehouse.js`), a tall timber tower of storeys stacked up a giant living tree, mostly wood with modern touches, its shingled witch's-hat tower standing above the treetops; she starts the game standing behind the decks in its cutaway DJ booth (the `stand` pose at its `seat` anchor; the `fore` sprite, the DJ table, drawn over her; `sit` in a game without the party spell), the camera zoomed in on its `camera` anchor; its tree is a giant, unlike any forest species. She stays there (`witch.seated` in the rules) until the **party spell** is cast and she first moves or rises. It stands just beyond the dancefloor's clearing (`map.treehouse`, placed by `treehouse` in the tuning file).
+- **Treehouse**: the witch's home near the dancefloor (`art/treehouse.js`), a tall timber tower of storeys stacked up a giant living tree, mostly wood with modern touches, its shingled witch's-hat tower standing above the treetops; she starts the game standing behind the decks in its cutaway DJ booth, **DJing** (Ed, 2026-10-06; the `dj` pose, facing us, stood with its ground anchor on the `seat` anchor; `sit` in a game without the party spell), the camera zoomed in on its `camera` anchor. The DJ booth: a desk squared up to the camera right in front of her (`djTable` in `art/treehouse.js`, laid out to her reach by `DJ_DECKS` in `art/witch.js`), turntables, a mixer, a lip and a front of chasing LEDs round a crescent moon; its `foreFrames` (`DJ_FRAMES`, cropped to `foreBox`: the platters turning, the LEDs chasing, two to a beat) drawn over her, then each DJ frame's **upper layer** (`sp.upper`, what's above the decks' top: her hands on the platters) over the table (`DJ_DEPTH`, `nearerCamera` in `render/view/home.ts`), her silhouette off meanwhile. The gestures (`DJ_GESTURES`: groove, cue, scratch, fader, knob, hype, and cast for the party spell), a gesture a bar and nodding on the beat clock (`djFrame(beatAt(g.beat, time))`); `node tools/dj/strip.mjs` and `booth-sheet.mjs [--gif]` draw them, `node tools/dj/booth.cjs` shoots the opening shot and the gameplay zoom; its tree is a giant, unlike any forest species. She stays there (`witch.seated` in the rules) until the **party spell** is cast and she first moves or rises. It stands just beyond the dancefloor's clearing (`map.treehouse`, placed by `treehouse` in the tuning file).
 - **Layout**: an area type's `layout` in `art/areas.js`: how its trees and undergrowth are arranged (pattern, density, clumping, glades, height mix, lean, terrain, decorations, a one-line feel); data the prototype's layout engine reads.
 - **Modern relics**: the forest's reclaimed modern world (`art/relics.js`): cars, trolleys, cones, broken highway, odds and ends, an overgrown playground and sports grounds, with suggested arrangements; no brands or text.
 - **World decorations**: scattered features any area can have, independent of its own props (`art/decor.js`): ruins, rocks, freak trees, and the lake kit; an area's `layout.decor` will weight their families.
